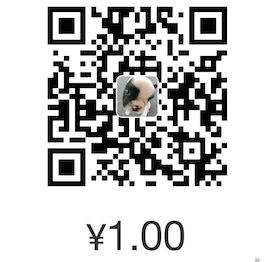
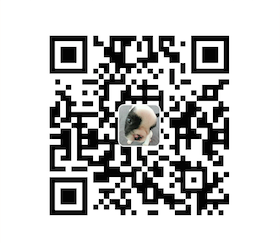
Site updated: 2016-10-11 20:32:30

diff --git a/css/main.css b/css/main.css
@@ -497,8 +497,8 @@ pre,
   margin: 20px 0;
   padding: 15px;
   font-size: 13px;
-  color: #4d4d4c;
-  background: #f7f7f7;
+  color: #ccc;
+  background: #2d2d2d;
   line-height: 1.6;
 }
 pre,
@@ -508,14 +508,14 @@ code {
 code {
   padding: 2px 4px;
   word-wrap: break-all;
-  color: #4d4d4c;
-  background: #f7f7f7;
+  color: #ccc;
+  background: #2d2d2d;
   border-radius: 3px;
   font-size: 13px;
 }
 pre code {
   padding: 0;
-  color: #4d4d4c;
+  color: #ccc;
   background: none;
   text-shadow: none;
 }
@@ -535,7 +535,7 @@ pre code {
 }
 .highlight figcaption {
   font-size: 1em;
-  color: #4d4d4c;
+  color: #ccc;
   line-height: 1em;
   margin-bottom: 1em;
 }
@@ -549,10 +549,10 @@ pre code {
 }
 .highlight figcaption a {
   float: right;
-  color: #4d4d4c;
+  color: #ccc;
 }
 .highlight figcaption a:hover {
-  border-bottom-color: #4d4d4c;
+  border-bottom-color: #ccc;
 }
 .highlight .gutter pre {
   color: #666;
@@ -569,16 +569,16 @@ pre code {
   border: none;
 }
 pre .deletion {
-  background: #fdd;
+  background: #008000;
 }
 pre .addition {
-  background: #dfd;
+  background: #800000;
 }
 pre .meta {
-  color: #8959a8;
+  color: #c9c;
 }
 pre .comment {
-  color: #8e908c;
+  color: #999;
 }
 pre .variable,
 pre .attribute,
@@ -592,7 +592,7 @@ pre .html .doctype,
 pre .css .id,
 pre .css .class,
 pre .css .pseudo {
-  color: #c82829;
+  color: #f2777a;
 }
 pre .number,
 pre .preprocessor,
@@ -601,7 +601,7 @@ pre .literal,
 pre .params,
 pre .constant,
 pre .command {
-  color: #f5871f;
+  color: #f99157;
 }
 pre .ruby .class .title,
 pre .css .rules .attribute,
@@ -614,11 +614,11 @@ pre .xml .cdata,
 pre .special,
 pre .number,
 pre .formula {
-  color: #718c00;
+  color: #9c9;
 }
 pre .title,
 pre .css .hexcolor {
-  color: #3e999f;
+  color: #6cc;
 }
 pre .function,
 pre .python .decorator,
@@ -628,11 +628,11 @@ pre .ruby .title .keyword,
 pre .perl .sub,
 pre .javascript .title,
 pre .coffeescript .title {
-  color: #4271ae;
+  color: #69c;
 }
 pre .keyword,
 pre .javascript .function {
-  color: #8959a8;
+  color: #c9c;
 }
 .full-image.full-image.full-image {
   border: none;
@@ -1400,6 +1400,121 @@ pre .javascript .function {
 .fancybox-close:hover {
   border: none;
 }
+#rewardButton {
+  cursor: pointer;
+  border: 0;
+  outline: 0;
+  border-radius: 100%;
+  padding: 0;
+  margin: 0;
+  letter-spacing: normal;
+  text-transform: none;
+  text-indent: 0px;
+  text-shadow: none;
+}
+#rewardButton span {
+  display: inline-block;
+  width: 80px;
+  height: 35px;
+  border-radius: 5px;
+  color: #fff;
+  font-weight: 400;
+  font-style: normal;
+  font-variant: normal;
+  font-stretch: normal;
+  font-size: 18px;
+  font-family: "Microsoft Yahei";
+  background: #f44336;
+}
+#rewardButton span:hover {
+  background: #f7877f;
+}
+#QR {
+  padding-top: 20px;
+}
+#QR a {
+  border: 0;
+}
+#QR img {
+  width: 180px;
+  max-width: 100%;
+  display: inline-block;
+  margin: 0.8em 2em 0 2em;
+}
+#wechat:hover p {
+  animation: roll 0.1s infinite linear;
+  -webkit-animation: roll 0.1s infinite linear;
+  -moz-animation: roll 0.1s infinite linear;
+}
+#alipay:hover p {
+  animation: roll 0.1s infinite linear;
+  -webkit-animation: roll 0.1s infinite linear;
+  -moz-animation: roll 0.1s infinite linear;
+}
+@-moz-keyframes roll {
+  from {
+    -webkit-transform: rotateZ(30deg);
+    -moz-transform: rotateZ(30deg);
+    -ms-transform: rotateZ(30deg);
+    -o-transform: rotateZ(30deg);
+    transform: rotateZ(30deg);
+  }
+  to {
+    -webkit-transform: rotateZ(-30deg);
+    -moz-transform: rotateZ(-30deg);
+    -ms-transform: rotateZ(-30deg);
+    -o-transform: rotateZ(-30deg);
+    transform: rotateZ(-30deg);
+  }
+}
+@-webkit-keyframes roll {
+  from {
+    -webkit-transform: rotateZ(30deg);
+    -moz-transform: rotateZ(30deg);
+    -ms-transform: rotateZ(30deg);
+    -o-transform: rotateZ(30deg);
+    transform: rotateZ(30deg);
+  }
+  to {
+    -webkit-transform: rotateZ(-30deg);
+    -moz-transform: rotateZ(-30deg);
+    -ms-transform: rotateZ(-30deg);
+    -o-transform: rotateZ(-30deg);
+    transform: rotateZ(-30deg);
+  }
+}
+@-o-keyframes roll {
+  from {
+    -webkit-transform: rotateZ(30deg);
+    -moz-transform: rotateZ(30deg);
+    -ms-transform: rotateZ(30deg);
+    -o-transform: rotateZ(30deg);
+    transform: rotateZ(30deg);
+  }
+  to {
+    -webkit-transform: rotateZ(-30deg);
+    -moz-transform: rotateZ(-30deg);
+    -ms-transform: rotateZ(-30deg);
+    -o-transform: rotateZ(-30deg);
+    transform: rotateZ(-30deg);
+  }
+}
+@keyframes roll {
+  from {
+    -webkit-transform: rotateZ(30deg);
+    -moz-transform: rotateZ(30deg);
+    -ms-transform: rotateZ(30deg);
+    -o-transform: rotateZ(30deg);
+    transform: rotateZ(30deg);
+  }
+  to {
+    -webkit-transform: rotateZ(-30deg);
+    -moz-transform: rotateZ(-30deg);
+    -ms-transform: rotateZ(-30deg);
+    -o-transform: rotateZ(-30deg);
+    transform: rotateZ(-30deg);
+  }
+}
 .sidebar {
   position: fixed;
   right: 0;
@@ -1575,7 +1690,7 @@ img:hover {
   width: 4px;
   height: 4px;
   border-radius: 50%;
-  background: #eddb4b;
+  background: #abff1b;
 }
 .links-of-blogroll {
   font-size: 13px;
